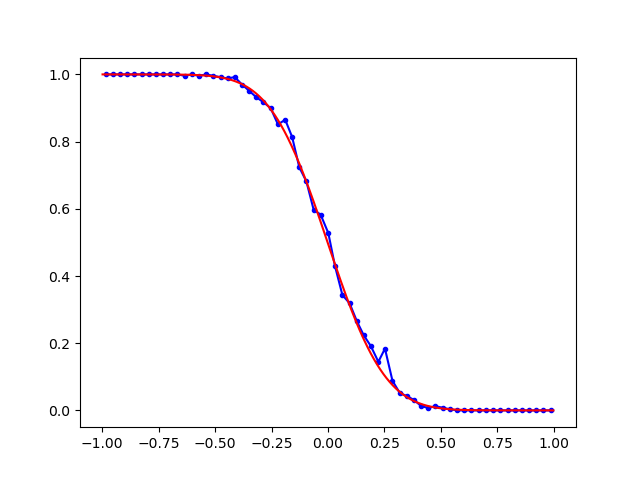
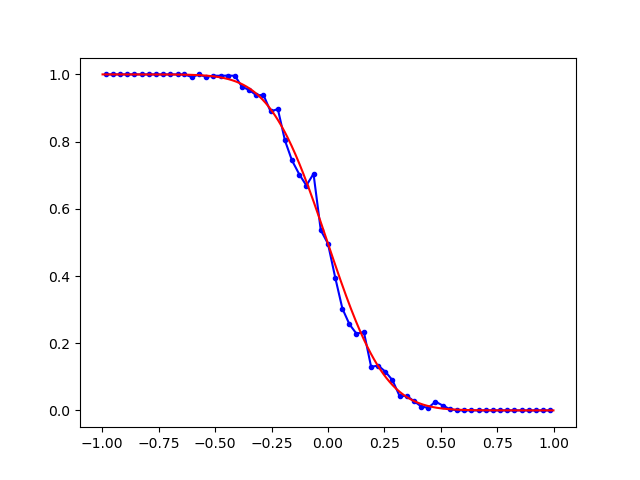
Created RMSE_test.py

diff --git a/RMSE_test.py b/RMSE_test.py
@@ -1,0 +1,37 @@
+import numpy as np
+import matplotlib.pyplot as plt
+
+
+size = 1.5
+
+# This will extract the data that you need where it will be in the form of 
+# your_data = [(0.952937, 0.0),.....,(0.9842844, 0.0)]
+
+def extract_data(file):
+
+        data = []
+
+        for line in open(file , 'r'):
+            
+            lines = [i for i in line.split()]
+            data.append((float(lines[0]), float(lines[1])))
+
+        print("[INFO] Extracting data from {name}".format(name=file))
+
+        return data
+
+
+# Please make sure the your file's path is in the same folder as the python script that you are running
+data_v1 = extract_data("observed_concentration_v1.txt")
+data_v2 = extract_data("observed_concentration_v2.txt")
+data_v3 = extract_data("observed_concentration_v3.txt")
+ref_sol = extract_data("reference_solution_1D.dat")
+
+# Plots all the data into a single figure
+plt.plot(*zip(*data_v1), '-bo', markersize=size)
+plt.plot(*zip(*data_v2), '-co', markersize=size)
+plt.plot(*zip(*data_v3), '-go', markersize=size)
+plt.plot(*zip(*ref_sol), 'r', markersize=size)
+
+plt.show()
+

diff --git a/task-b/simulation.py b/task-b/simulation.py
@@ -120,8 +120,6 @@ class TaskA(InitialState,SimulationMath,Concentration):
         plt.savefig('diagram/concentration_plot.png')
         plt.show()
 
-        self.save_to_txt(concentration_list)
-
         print("[INFO] Simulation status : Success")
 
         
